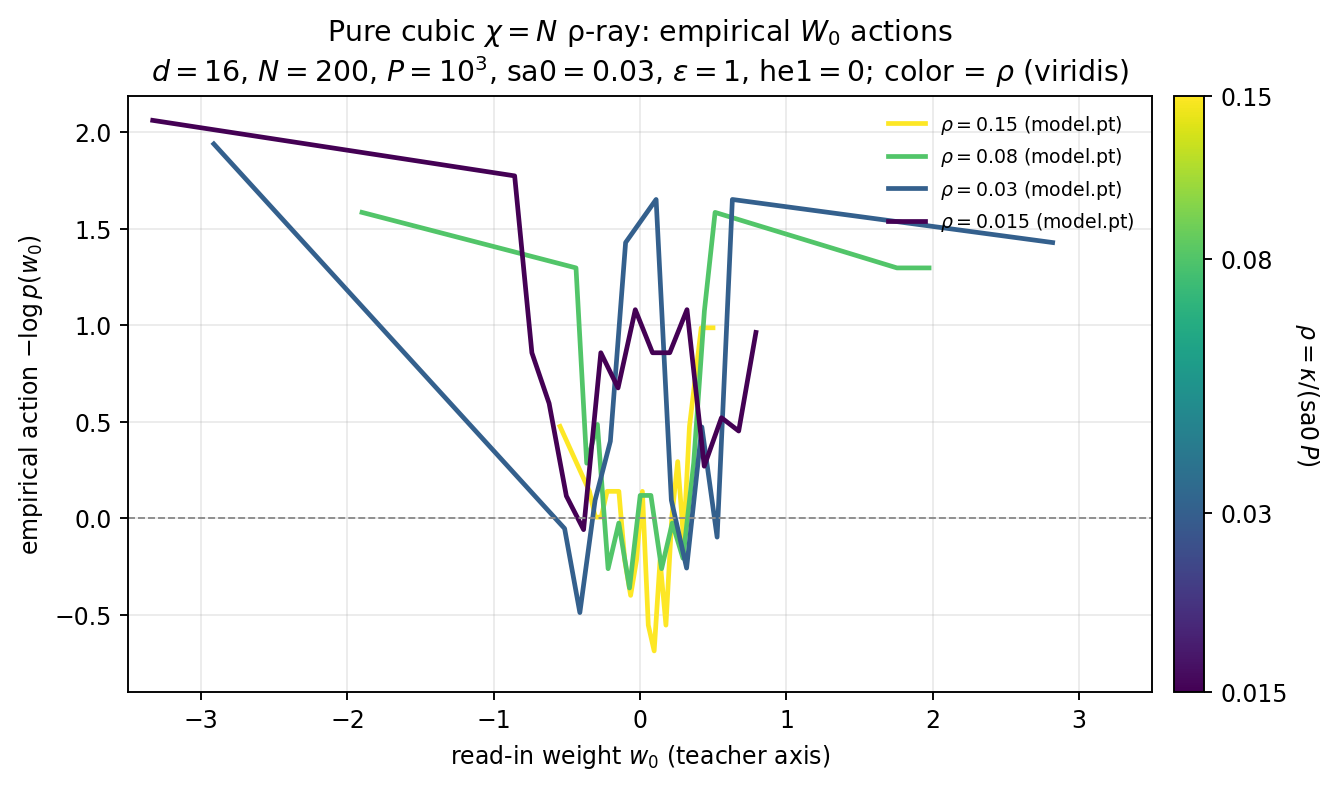
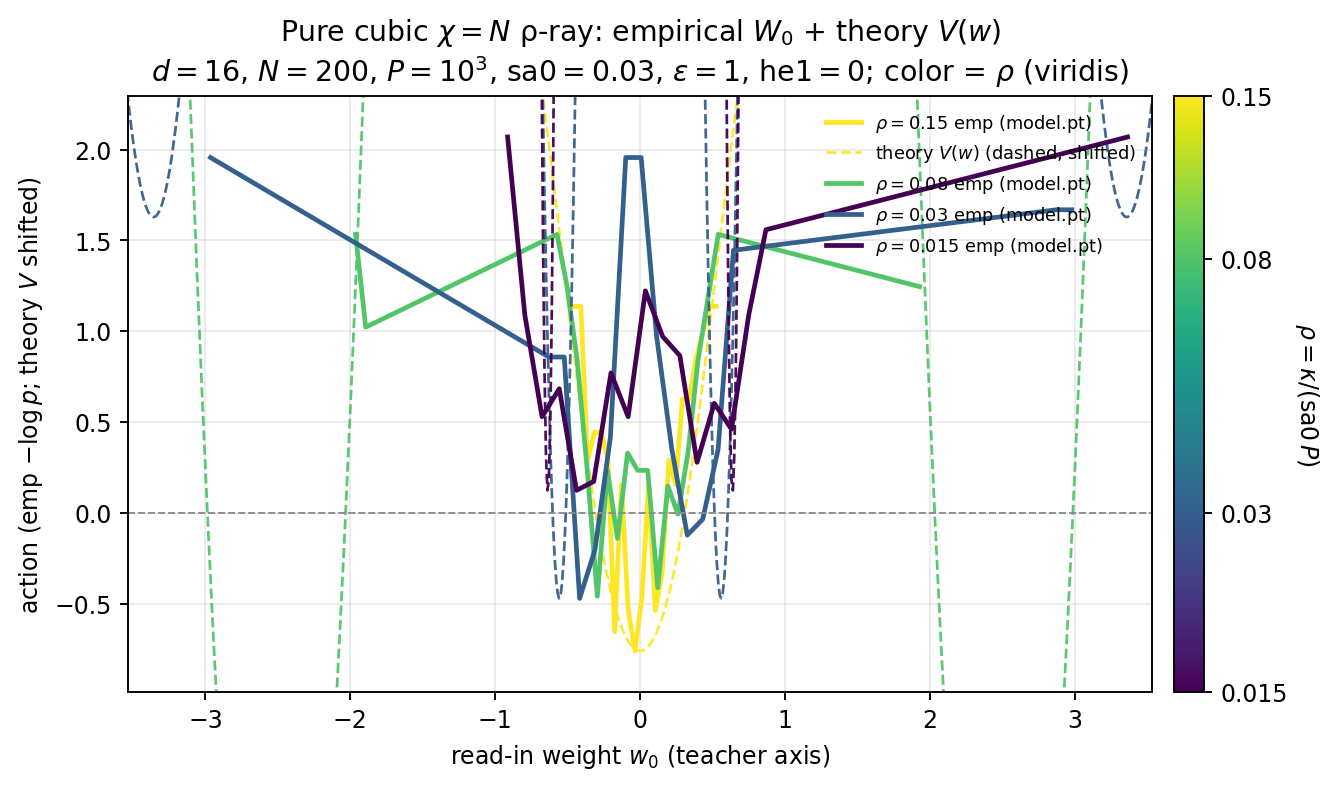
Overlay χ=N cavity theory V(w) as thin dashed curves on the empirical ρ-ray action plot.
Same figure and viridis coloring; theory shifted to match empirical action min per ρ.

diff --git a/milestones/fcn2_erf_hidden_kernel/plot_pure_cubic_rho_ray_empirical_actions.py b/milestones/fcn2_erf_hidden_kernel/plot_pure_cubic_rho_ray_empirical_actions.py
@@ -3,12 +3,16 @@
 
 Loads teacher-axis read-in weights W0[..., 0] from each run:
   - pool A_snapshots/ when present (posterior), else model.pt / checkpoint.pt
-Plots -log p(w) histograms overlaid, colored by ρ = κ/(sa0 P) (viridis).
+Plots -log p(w) histograms overlaid, colored by ρ = κ/(sa0 P) (viridis),
+with χ=N cavity theory V(w) as thin dashed curves (same colors).
+
+Theory CSVs default to the FO-window + deep-ρ equilibrium dumps; each
+empirical ρ picks the nearest available theory ρ. Theory is shifted so its
+min on the plot window matches the empirical action min (additive gauge).
 
 Example::
 
     python plot_pure_cubic_rho_ray_empirical_actions.py
-    python plot_pure_cubic_rho_ray_empirical_actions.py --replot   # after more training
 """
 from __future__ import annotations
 
@@ -27,6 +31,12 @@ DEFAULT_SWEEP = HERE / (
     "_d16_N200_P1000_chiN_sa00.03_eps1_he10"
     "_lr0.01_ep60M_sched2_3_5"
 )
+DEFAULT_THEORY = [
+    HERE
+    / "action_h0_activation_plots/PureCubicChiN/tmp_pure_cubic_rho_ray_actions_equilibrium.csv",
+    HERE
+    / "action_h0_activation_plots/PureCubicChiN/fo_rho_deep_l3/tmp_pure_cubic_rho_ray_actions_equilibrium.csv",
+]
 DIR_RE = re.compile(
     r"purecubic_rho(?P<rho>[\d.eE+-]+)_d(?P<d>\d+)_P(?P<P>\d+)_N(?P<N>\d+)"
     r"_chi(?P<chi>[\d.]+)_sa0(?P<sa0>[\d.]+)_kappa(?P<kappa>[\d.]+)_seed(?P<seed>\d+)$"
@@ -54,7 +64,6 @@ def load_w0_target(model_dir: Path) -> tuple[np.ndarray, str]:
     snap_dir = model_dir / "A_snapshots"
     snaps = sorted(snap_dir.glob("epoch_*.pt")) if snap_dir.is_dir() else []
     if snaps:
-        # second half of the snapshot window (equilibrated posterior)
         use = snaps[len(snaps) // 2 :]
         chunks = []
         for p in use:
@@ -67,13 +76,19 @@ def load_w0_target(model_dir: Path) -> tuple[np.ndarray, str]:
         if not ckpt.is_file():
             continue
         obj = torch.load(ckpt, map_location="cpu", weights_only=False)
-        state = obj["model_state_dict"] if isinstance(obj, dict) and "model_state_dict" in obj else obj
+        state = (
+            obj["model_state_dict"]
+            if isinstance(obj, dict) and "model_state_dict" in obj
+            else obj
+        )
         w0 = state["W0"][..., 0].detach().cpu().numpy().reshape(-1)
         return w0, name
     raise FileNotFoundError(f"no W0 in {model_dir}")
 
 
-def action_curve(values: np.ndarray, bins: int = 60, min_samples: int = 3, eps: float = 1e-9):
+def action_curve(
+    values: np.ndarray, bins: int = 60, min_samples: int = 3, eps: float = 1e-9
+):
     values = np.asarray(values, float).reshape(-1)
     values = values[np.isfinite(values)]
     if values.size == 0:
@@ -86,6 +101,36 @@ def action_curve(values: np.ndarray, bins: int = 60, min_samples: int = 3, eps: 
     return centers, action
 
 
+def load_theory_catalog(paths: list[Path]) -> dict[float, tuple[np.ndarray, np.ndarray]]:
+    """ρ → (w, V) from one or more long action CSVs (later files override)."""
+    catalog: dict[float, tuple[np.ndarray, np.ndarray]] = {}
+    for path in paths:
+        if not path.is_file():
+            print(f"theory skip (missing): {path}")
+            continue
+        data = np.genfromtxt(path, delimiter=",", names=True)
+        for rho in np.unique(data["rho"]):
+            m = data["rho"] == rho
+            w = np.asarray(data["w"][m], float)
+            V = np.asarray(data["V"][m], float)
+            o = np.argsort(w)
+            catalog[float(rho)] = (w[o], V[o])
+        print(f"theory loaded {path.name}: {len(np.unique(data['rho']))} ρ curves")
+    return catalog
+
+
+def nearest_theory(
+    catalog: dict[float, tuple[np.ndarray, np.ndarray]], rho: float
+) -> tuple[float, np.ndarray, np.ndarray] | None:
+    if not catalog:
+        return None
+    keys = np.asarray(sorted(catalog.keys()), float)
+    j = int(np.argmin(np.abs(keys - rho)))
+    r = float(keys[j])
+    w, V = catalog[r]
+    return r, w, V
+
+
 def main() -> None:
     ap = argparse.ArgumentParser()
     ap.add_argument("--sweep", type=Path, default=DEFAULT_SWEEP)
@@ -94,6 +139,13 @@ def main() -> None:
         type=Path,
         default=None,
         help="default: <sweep>/plots/empirical_weight_actions_vs_rho.png",
+    )
+    ap.add_argument(
+        "--theory",
+        type=Path,
+        nargs="*",
+        default=DEFAULT_THEORY,
+        help="cavity V(w) CSVs (FO + deep). Empty disables theory overlay.",
     )
     ap.add_argument("--bins", type=int, default=60)
     ap.add_argument("--wmax", type=float, default=None, help="x-axis half-width (auto if omit)")
@@ -121,6 +173,8 @@ def main() -> None:
     if not runs:
         raise SystemExit(f"no purecubic_rho* runs with W0 under {models}")
 
+    catalog = load_theory_catalog(list(args.theory)) if args.theory else {}
+
     runs.sort(key=lambda r: -r["rho"])  # high → low (yellow → purple)
     rhos = np.asarray([r["rho"] for r in runs], float)
     c_plot = np.log10(np.clip(rhos, 1e-30, None))
@@ -133,6 +187,7 @@ def main() -> None:
     fig, ax = plt.subplots(figsize=(8.0, 4.8))
     xmax_auto = 0.0
     ymin_auto, ymax_auto = np.inf, -np.inf
+    theory_labeled = False
     for r, c in zip(runs, c_plot):
         centers, action = action_curve(r["w0"], bins=args.bins)
         mask = np.isfinite(action)
@@ -142,16 +197,54 @@ def main() -> None:
             action[mask],
             color=color,
             lw=2.0,
-            label=rf"$\rho={r['rho']:.3g}$ ({r['src']})",
+            label=rf"$\rho={r['rho']:.3g}$ emp ({r['src']})",
         )
         if mask.any():
             xmax_auto = max(xmax_auto, float(np.max(np.abs(centers[mask]))))
             ymin_auto = min(ymin_auto, float(np.nanmin(action[mask])))
             ymax_auto = max(ymax_auto, float(np.nanpercentile(action[mask], 98)))
-        print(
-            f"  ρ={r['rho']:.4g}  κ={r['kappa']:.4g}  n={r['w0'].size}  "
-            f"src={r['src']}  var(w0)={r['w0'].var():.4g}"
-        )
+
+        th = nearest_theory(catalog, r["rho"])
+        if th is not None and mask.any():
+            rho_th, w_th, V_th = th
+            # provisional wmax for shift; refined after loop via xlim
+            wmax_guess = (
+                float(args.wmax)
+                if args.wmax is not None
+                else max(1.05 * xmax_auto, 0.8)
+            )
+            in_win = np.abs(w_th) <= wmax_guess
+            if not np.any(in_win):
+                in_win = np.ones_like(w_th, dtype=bool)
+            emp_min = float(np.nanmin(action[mask]))
+            V_win = V_th[in_win]
+            if np.any(np.isfinite(V_win)):
+                V_shift = V_th - float(np.nanmin(V_win)) + emp_min
+                lbl = None
+                if not theory_labeled:
+                    lbl = r"theory $V(w)$ (dashed, shifted)"
+                    theory_labeled = True
+                ax.plot(
+                    w_th,
+                    V_shift,
+                    color=color,
+                    lw=1.15,
+                    ls="--",
+                    alpha=0.95,
+                    label=lbl,
+                    zorder=2,
+                )
+                print(
+                    f"  ρ={r['rho']:.4g}  emp={r['src']}  "
+                    f"theory ρ={rho_th:.4g}  (Δρ={rho_th - r['rho']:+.4g})"
+                )
+            else:
+                print(f"  ρ={r['rho']:.4g}  emp={r['src']}  theory empty window")
+        else:
+            print(
+                f"  ρ={r['rho']:.4g}  κ={r['kappa']:.4g}  n={r['w0'].size}  "
+                f"src={r['src']}  var(w0)={r['w0'].var():.4g}"
+            )
 
     wmax = float(args.wmax) if args.wmax is not None else max(1.05 * xmax_auto, 0.8)
     ax.set_xlim(-wmax, wmax)
@@ -160,15 +253,15 @@ def main() -> None:
         ax.set_ylim(ymin_auto - pad, ymax_auto + pad)
     ax.axhline(0.0, color="0.55", lw=0.8, ls="--")
     ax.set_xlabel(r"read-in weight $w_0$ (teacher axis)")
-    ax.set_ylabel(r"empirical action $-\log p(w_0)$")
+    ax.set_ylabel(r"action (emp $-\log p$; theory $V$ shifted)")
     ax.set_title(
-        r"Pure cubic $\chi=N$ ρ-ray: empirical $W_0$ actions"
+        r"Pure cubic $\chi=N$ ρ-ray: empirical $W_0$ + theory $V(w)$"
         "\n"
         r"$d=16$, $N=200$, $P=10^3$, $\mathrm{sa0}=0.03$, $\varepsilon=1$, $\mathrm{he1}=0$; "
         r"color = $\rho$ (viridis)"
     )
     ax.grid(True, alpha=0.25)
-    ax.legend(frameon=False, fontsize=8, loc="upper right")
+    ax.legend(frameon=False, fontsize=7.5, loc="upper right")
 
     sm = mpl.cm.ScalarMappable(cmap=cmap, norm=norm)
     sm.set_array([])
